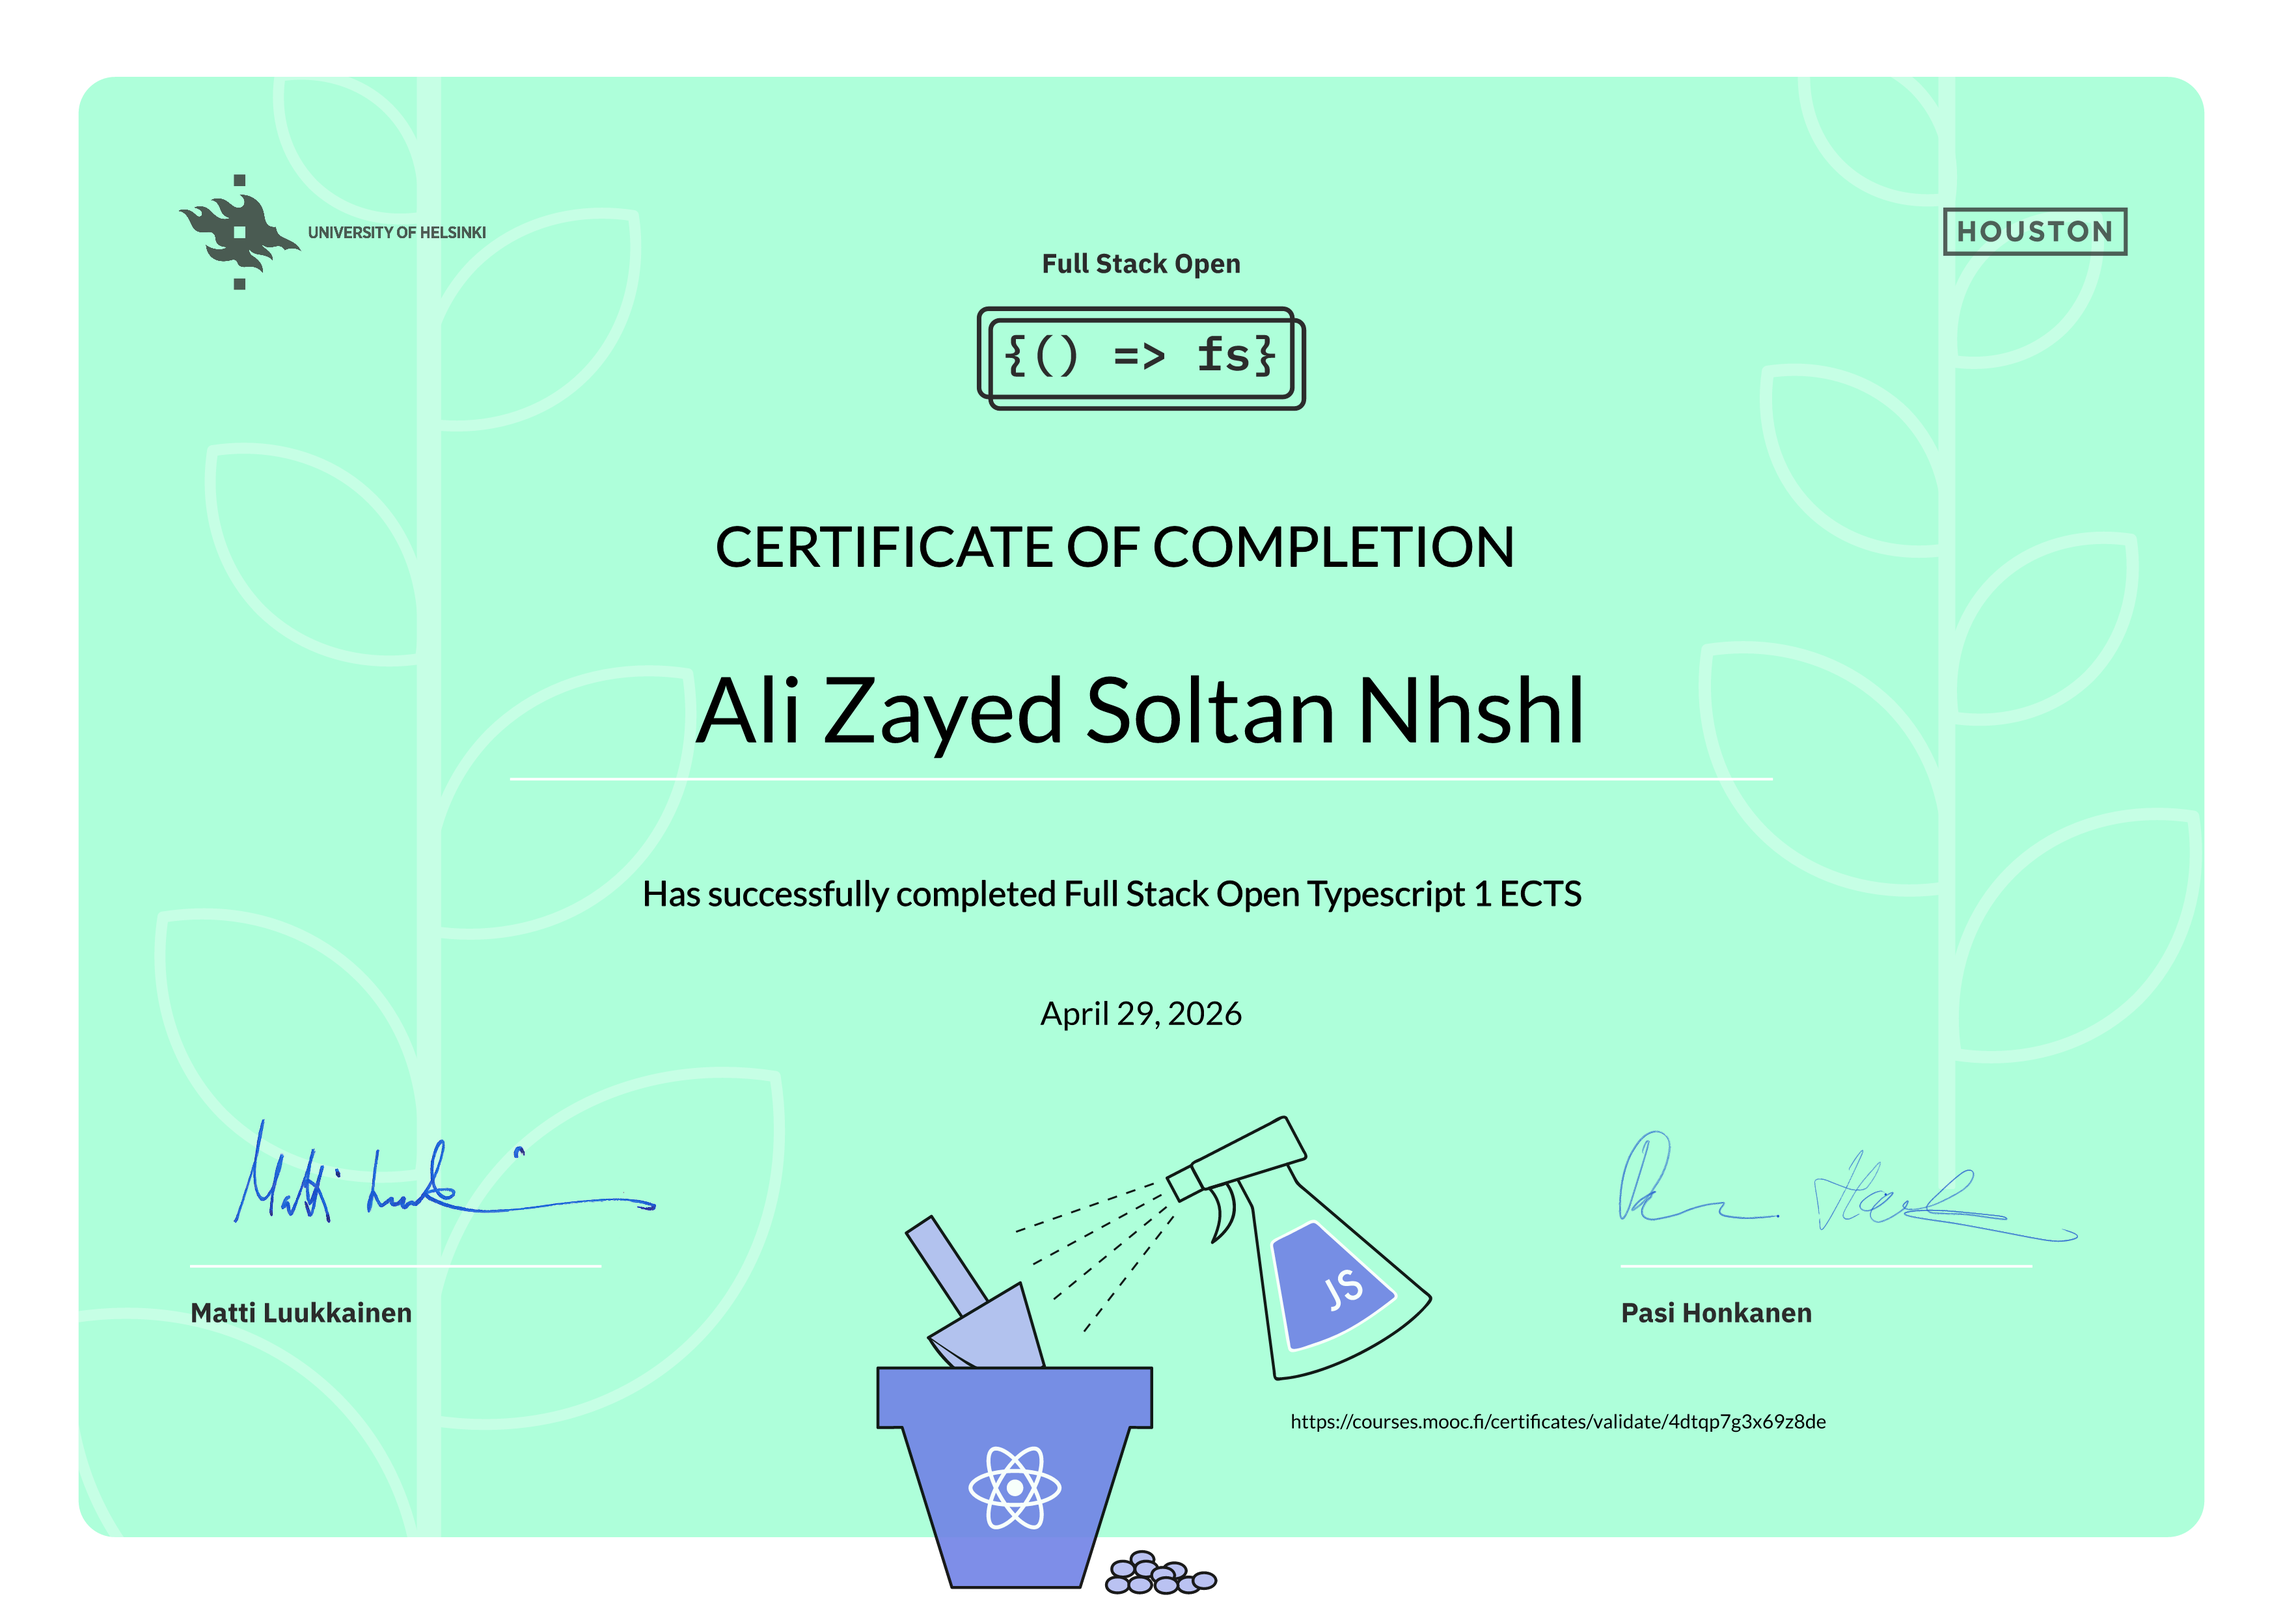
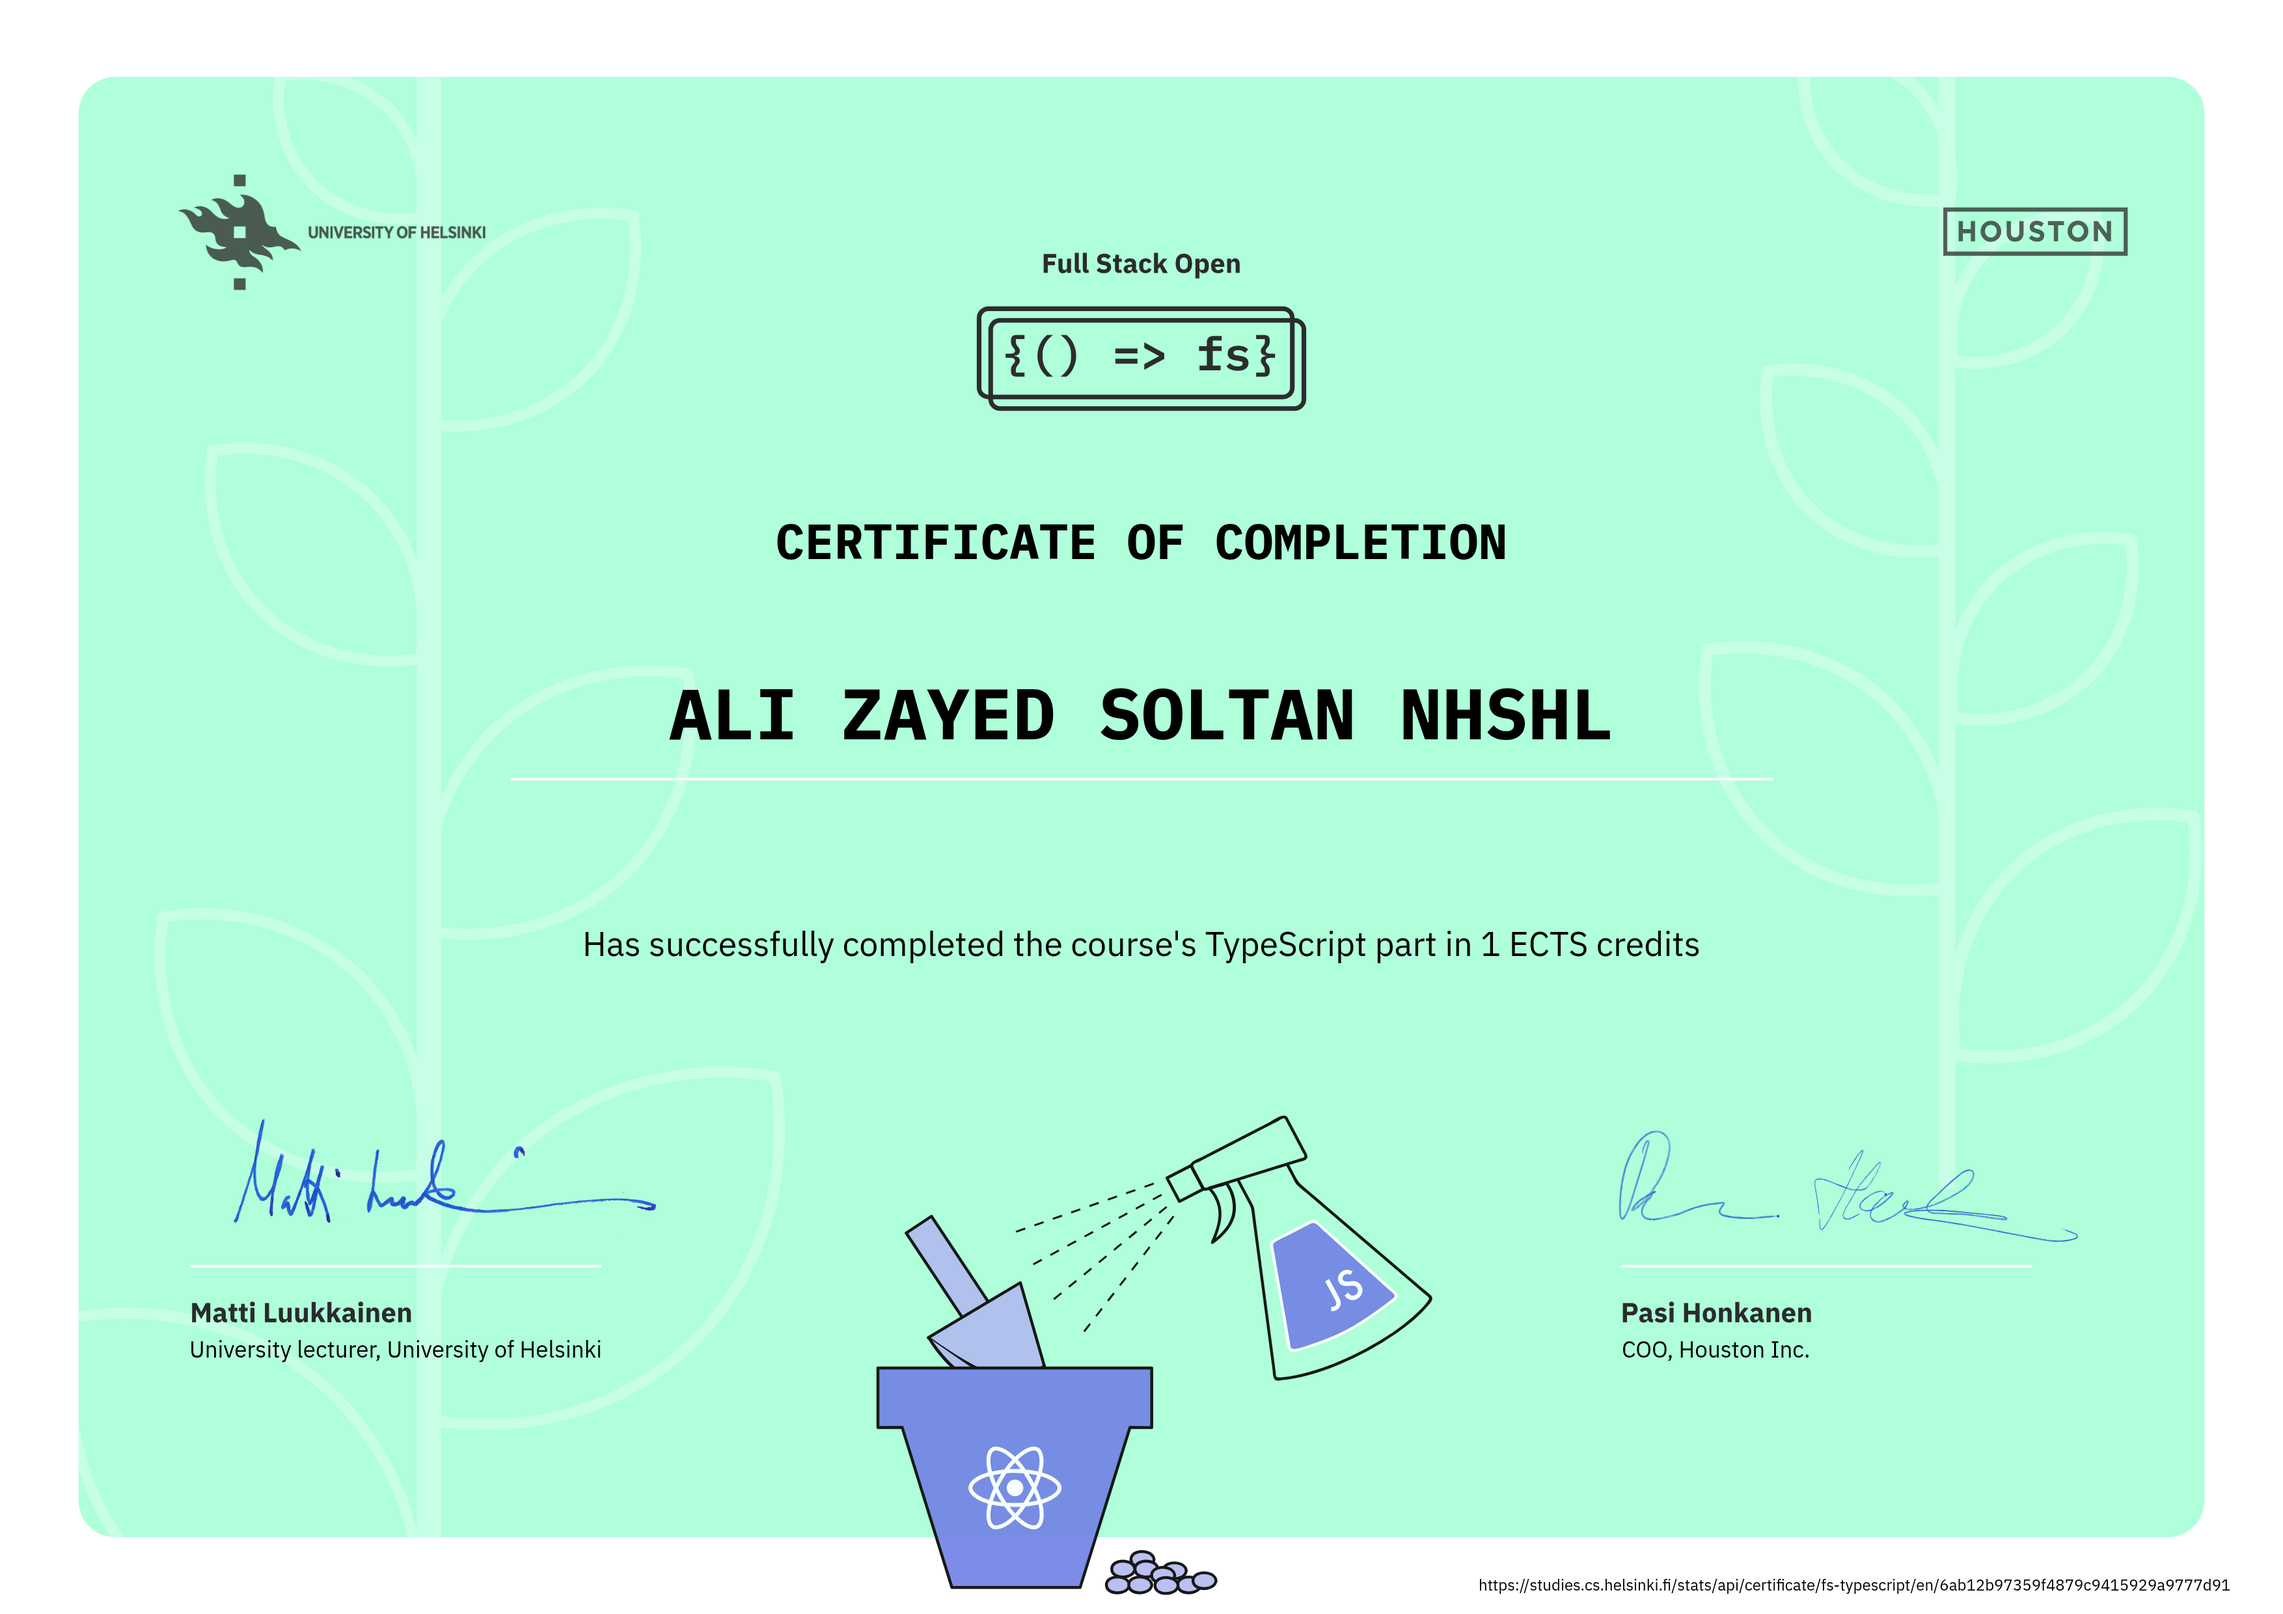
Edited New Certificates

diff --git a/README.md b/README.md
@@ -21,8 +21,19 @@ I am a passionate **IT Graduate** from Sana'a Community College specialized in b
 
 #### 📜 Earned Credentials
 
+- **Full Stack Open (Core Curriculum) — University of Helsinki**  
+  Earned 7 ECTS credits mastering the foundations of modern web development, deep-diving into React, Redux Toolkit, Node.js/Express, MongoDB user administration, and automated component/E2E testing.
+
 ![Full Stack Open - Core Course Certificate](/assets/certificate-fullstack.png)
+
+- **Full Stack Open (GraphQL Part) — University of Helsinki**  
+  Earned 1 ECTS credit focusing on schemas, queries, mutations, Apollo Client, and WebSockets.
+
 ![Full Stack Open - GraphQL Advanced Certificate](/assets/certificate-graphql.png)
+
+- **Full Stack Open (TypeScript Part) — University of Helsinki**  
+  Earned 1 ECTS credit specializing in typed full-stack development, covering static typing, strict configurations, Express endpoint typing, and migrating existing React architectures to TypeScript.
+
 ![Full Stack Open - TypeScript Certificate](/assets/certificate-typescript.png)
 
 - **Next.js Dashboard Specialization:** Built a full-stack financial dashboard focused on App Router logic, Server Actions, and Auth.js.
